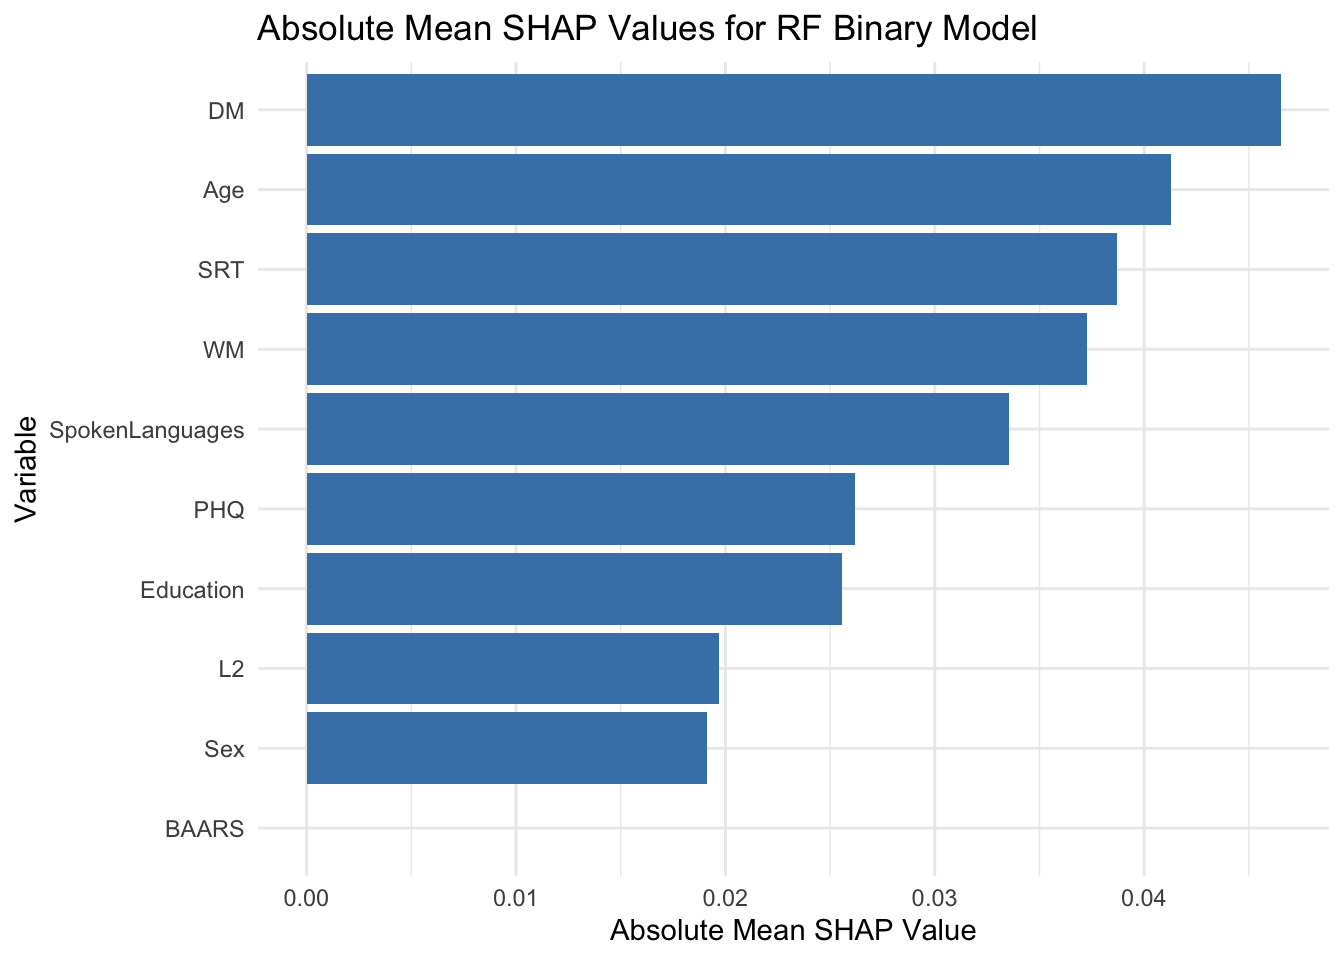
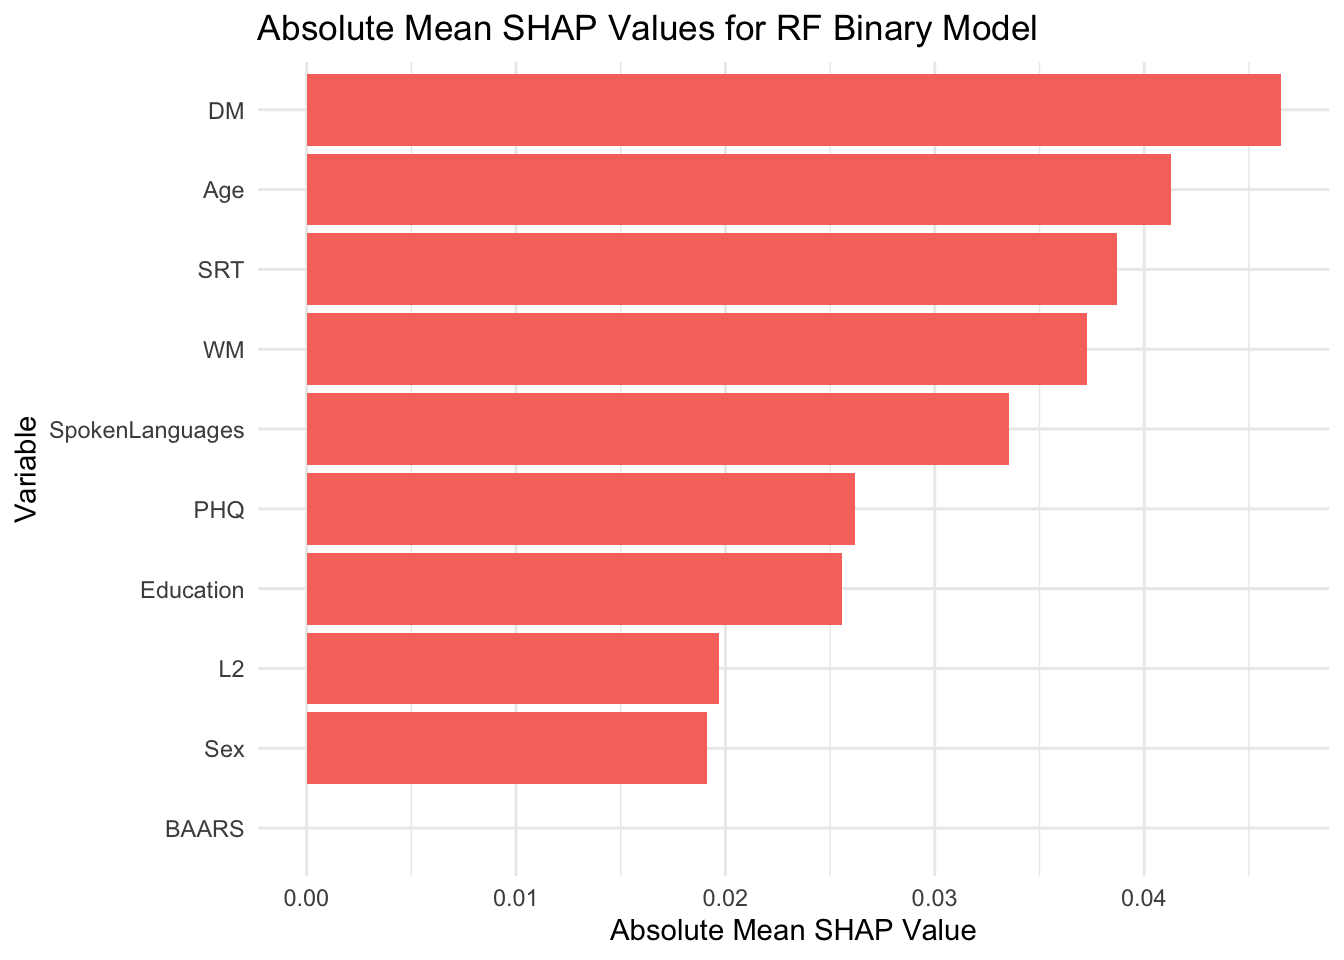
Built site for gh-pages

diff --git a/about.html b/about.html
@@ -1868,7 +1868,7 @@ Prediction adhd no_adhd
 <span id="cb36-38"><a href="#cb36-38" aria-hidden="true" tabindex="-1"></a></span>
 <span id="cb36-39"><a href="#cb36-39" aria-hidden="true" tabindex="-1"></a><span class="co"># Create a bar plot of the absolute mean SHAP values</span></span>
 <span id="cb36-40"><a href="#cb36-40" aria-hidden="true" tabindex="-1"></a>Shap_Means_BI <span class="ot">&lt;-</span> <span class="fu">ggplot</span>(df_BI_shap_abs, <span class="fu">aes</span>(<span class="at">x =</span> <span class="fu">reorder</span>(Variable, Mean_SHAP), <span class="at">y =</span> Mean_SHAP)) <span class="sc">+</span></span>
-<span id="cb36-41"><a href="#cb36-41" aria-hidden="true" tabindex="-1"></a>  <span class="fu">geom_bar</span>(<span class="at">stat =</span> <span class="st">"identity"</span>, <span class="at">fill =</span> <span class="st">"steelblue"</span>) <span class="sc">+</span></span>
+<span id="cb36-41"><a href="#cb36-41" aria-hidden="true" tabindex="-1"></a>  <span class="fu">geom_bar</span>(<span class="at">stat =</span> <span class="st">"identity"</span>, <span class="at">fill =</span> <span class="st">"#F8766D"</span>) <span class="sc">+</span></span>
 <span id="cb36-42"><a href="#cb36-42" aria-hidden="true" tabindex="-1"></a>  <span class="fu">labs</span>(<span class="at">title =</span> <span class="st">"Absolute Mean SHAP Values for RF Binary Model"</span>,</span>
 <span id="cb36-43"><a href="#cb36-43" aria-hidden="true" tabindex="-1"></a>       <span class="at">x =</span> <span class="st">"Variable"</span>,</span>
 <span id="cb36-44"><a href="#cb36-44" aria-hidden="true" tabindex="-1"></a>       <span class="at">y =</span> <span class="st">"Absolute Mean SHAP Value"</span>) <span class="sc">+</span></span>
